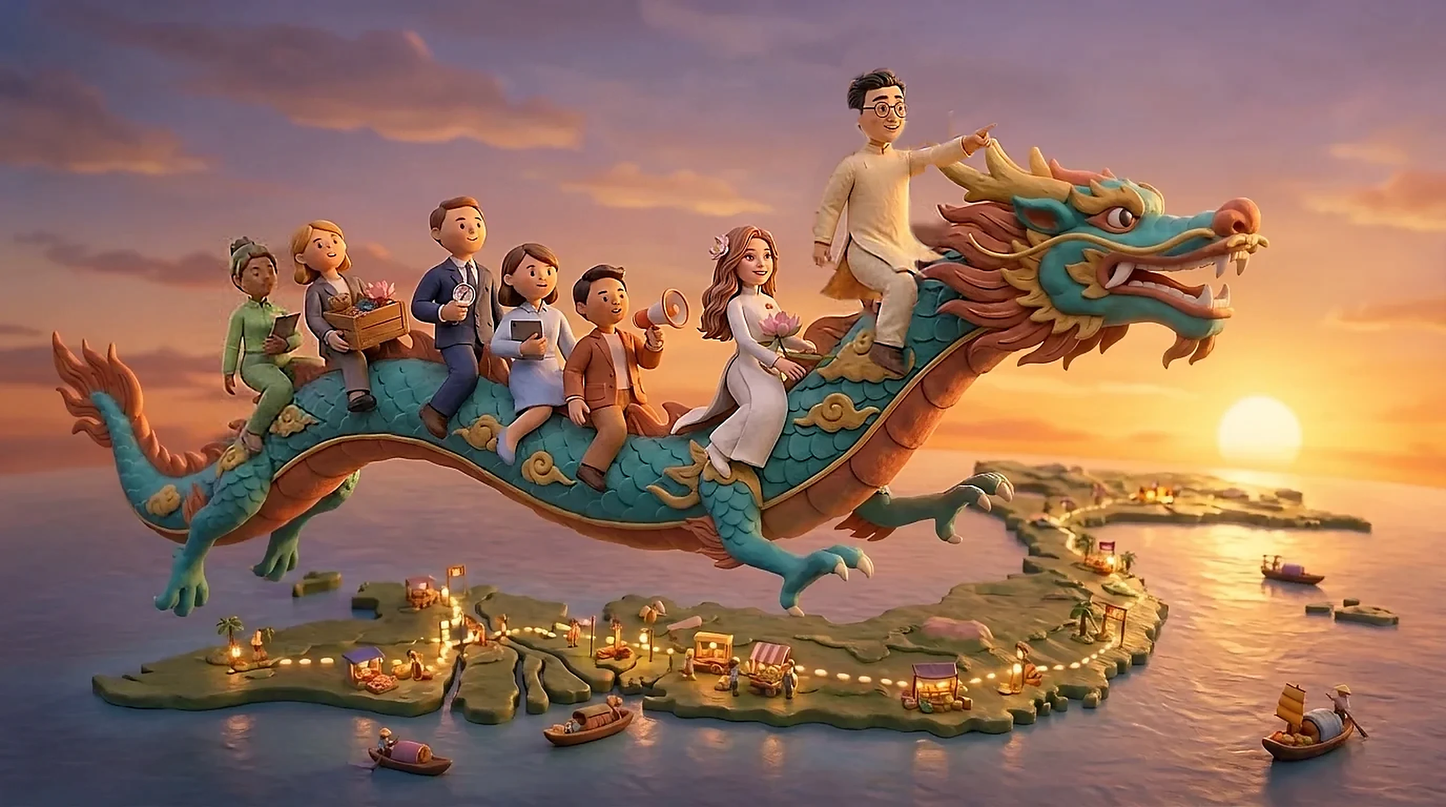
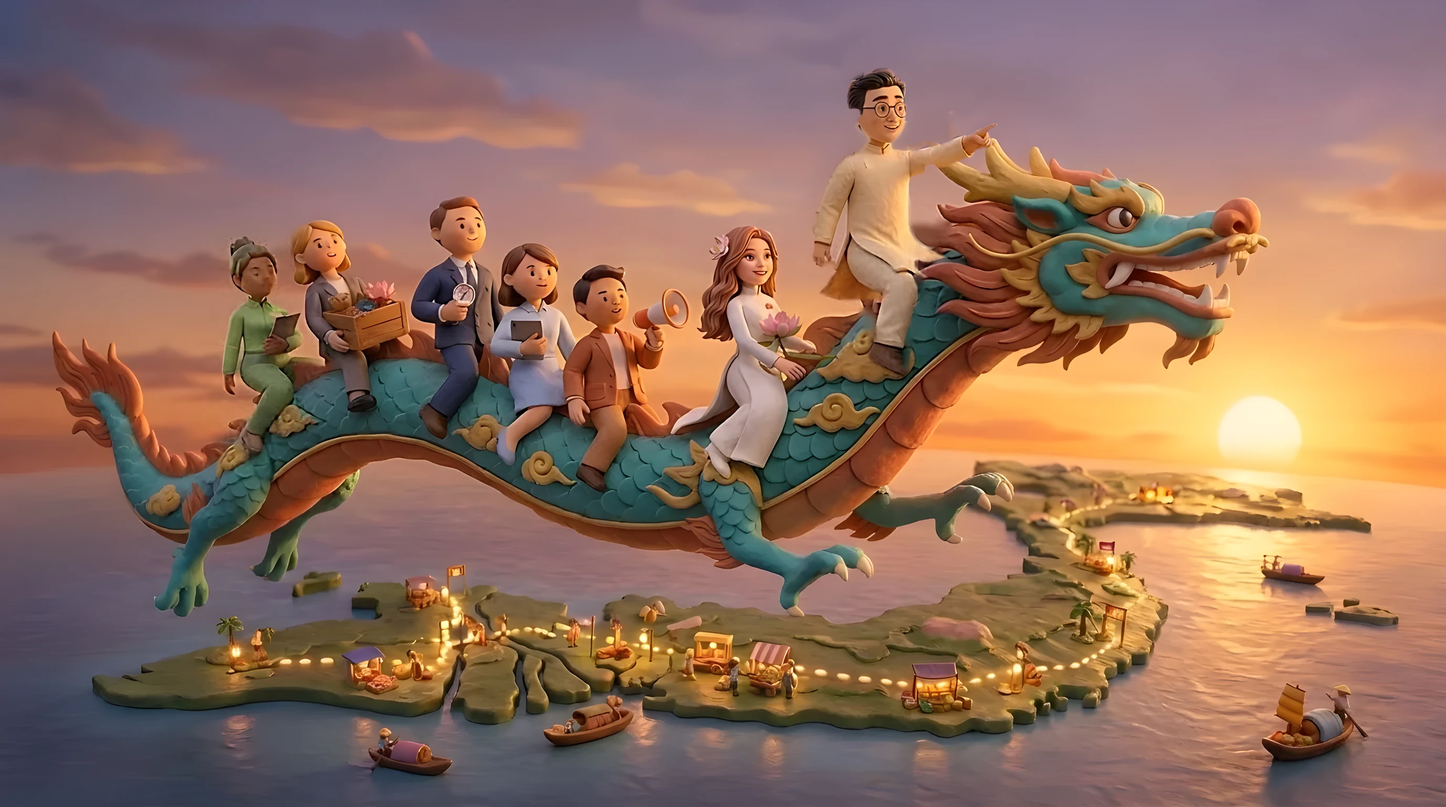
Ảnh nền Thanh Long cưỡi mây v4: dựng lại bằng Real-ESRGAN thay cho làm nét thông thường
Chị Hương cho phép chạy Real-ESRGAN. v4 = Real-ESRGAN x4plus phóng 4 lần từ v3 (5504×3072), thu về 2752×1536: viền mặt, kính, răng và vảy rồng sắc gọn, hết nhòe; trời vẫn mịn. Trọng số nạp ở chế độ weights_only.

diff --git a/test/rong-bay-ngoi.test.js b/test/rong-bay-ngoi.test.js
@@ -1,4 +1,4 @@
-// Tranh «Thanh Long cưỡi mây»: ảnh nền bản v4 (06/11/2026: phóng gấp đôi 2752×1536 và làm nét viền từ v3, vì ảnh nền toàn màn hình BizOn Game 3D bị vỡ trên màn hình lớn).
+// Tranh «Thanh Long cưỡi mây»: ảnh nền bản v4 (06/11/2026: phóng 4 lần bằng Real-ESRGAN x4plus từ v3 rồi thu về 2752×1536, vì ảnh nền toàn màn hình BizOn Game 3D bị vỡ trên màn hình lớn).
 // Bản v3 (05/11/2026: hai người vừa sửa làm nét và khớp màu với cả tranh; bìa Bật Nghiệp giữ trọn bề ngang, không cắt đuôi rồng).
 // Trước đó, bản v2 cho người đứng đầu và cô áo xanh ngồi trên lưng rồng như cả đội.
 // Mọi trang và dữ liệu phải dùng bản v2 (ba khổ: ảnh nền 1376×768, ảnh trang game 1100×614, bìa Bật Nghiệp 1280×800);
